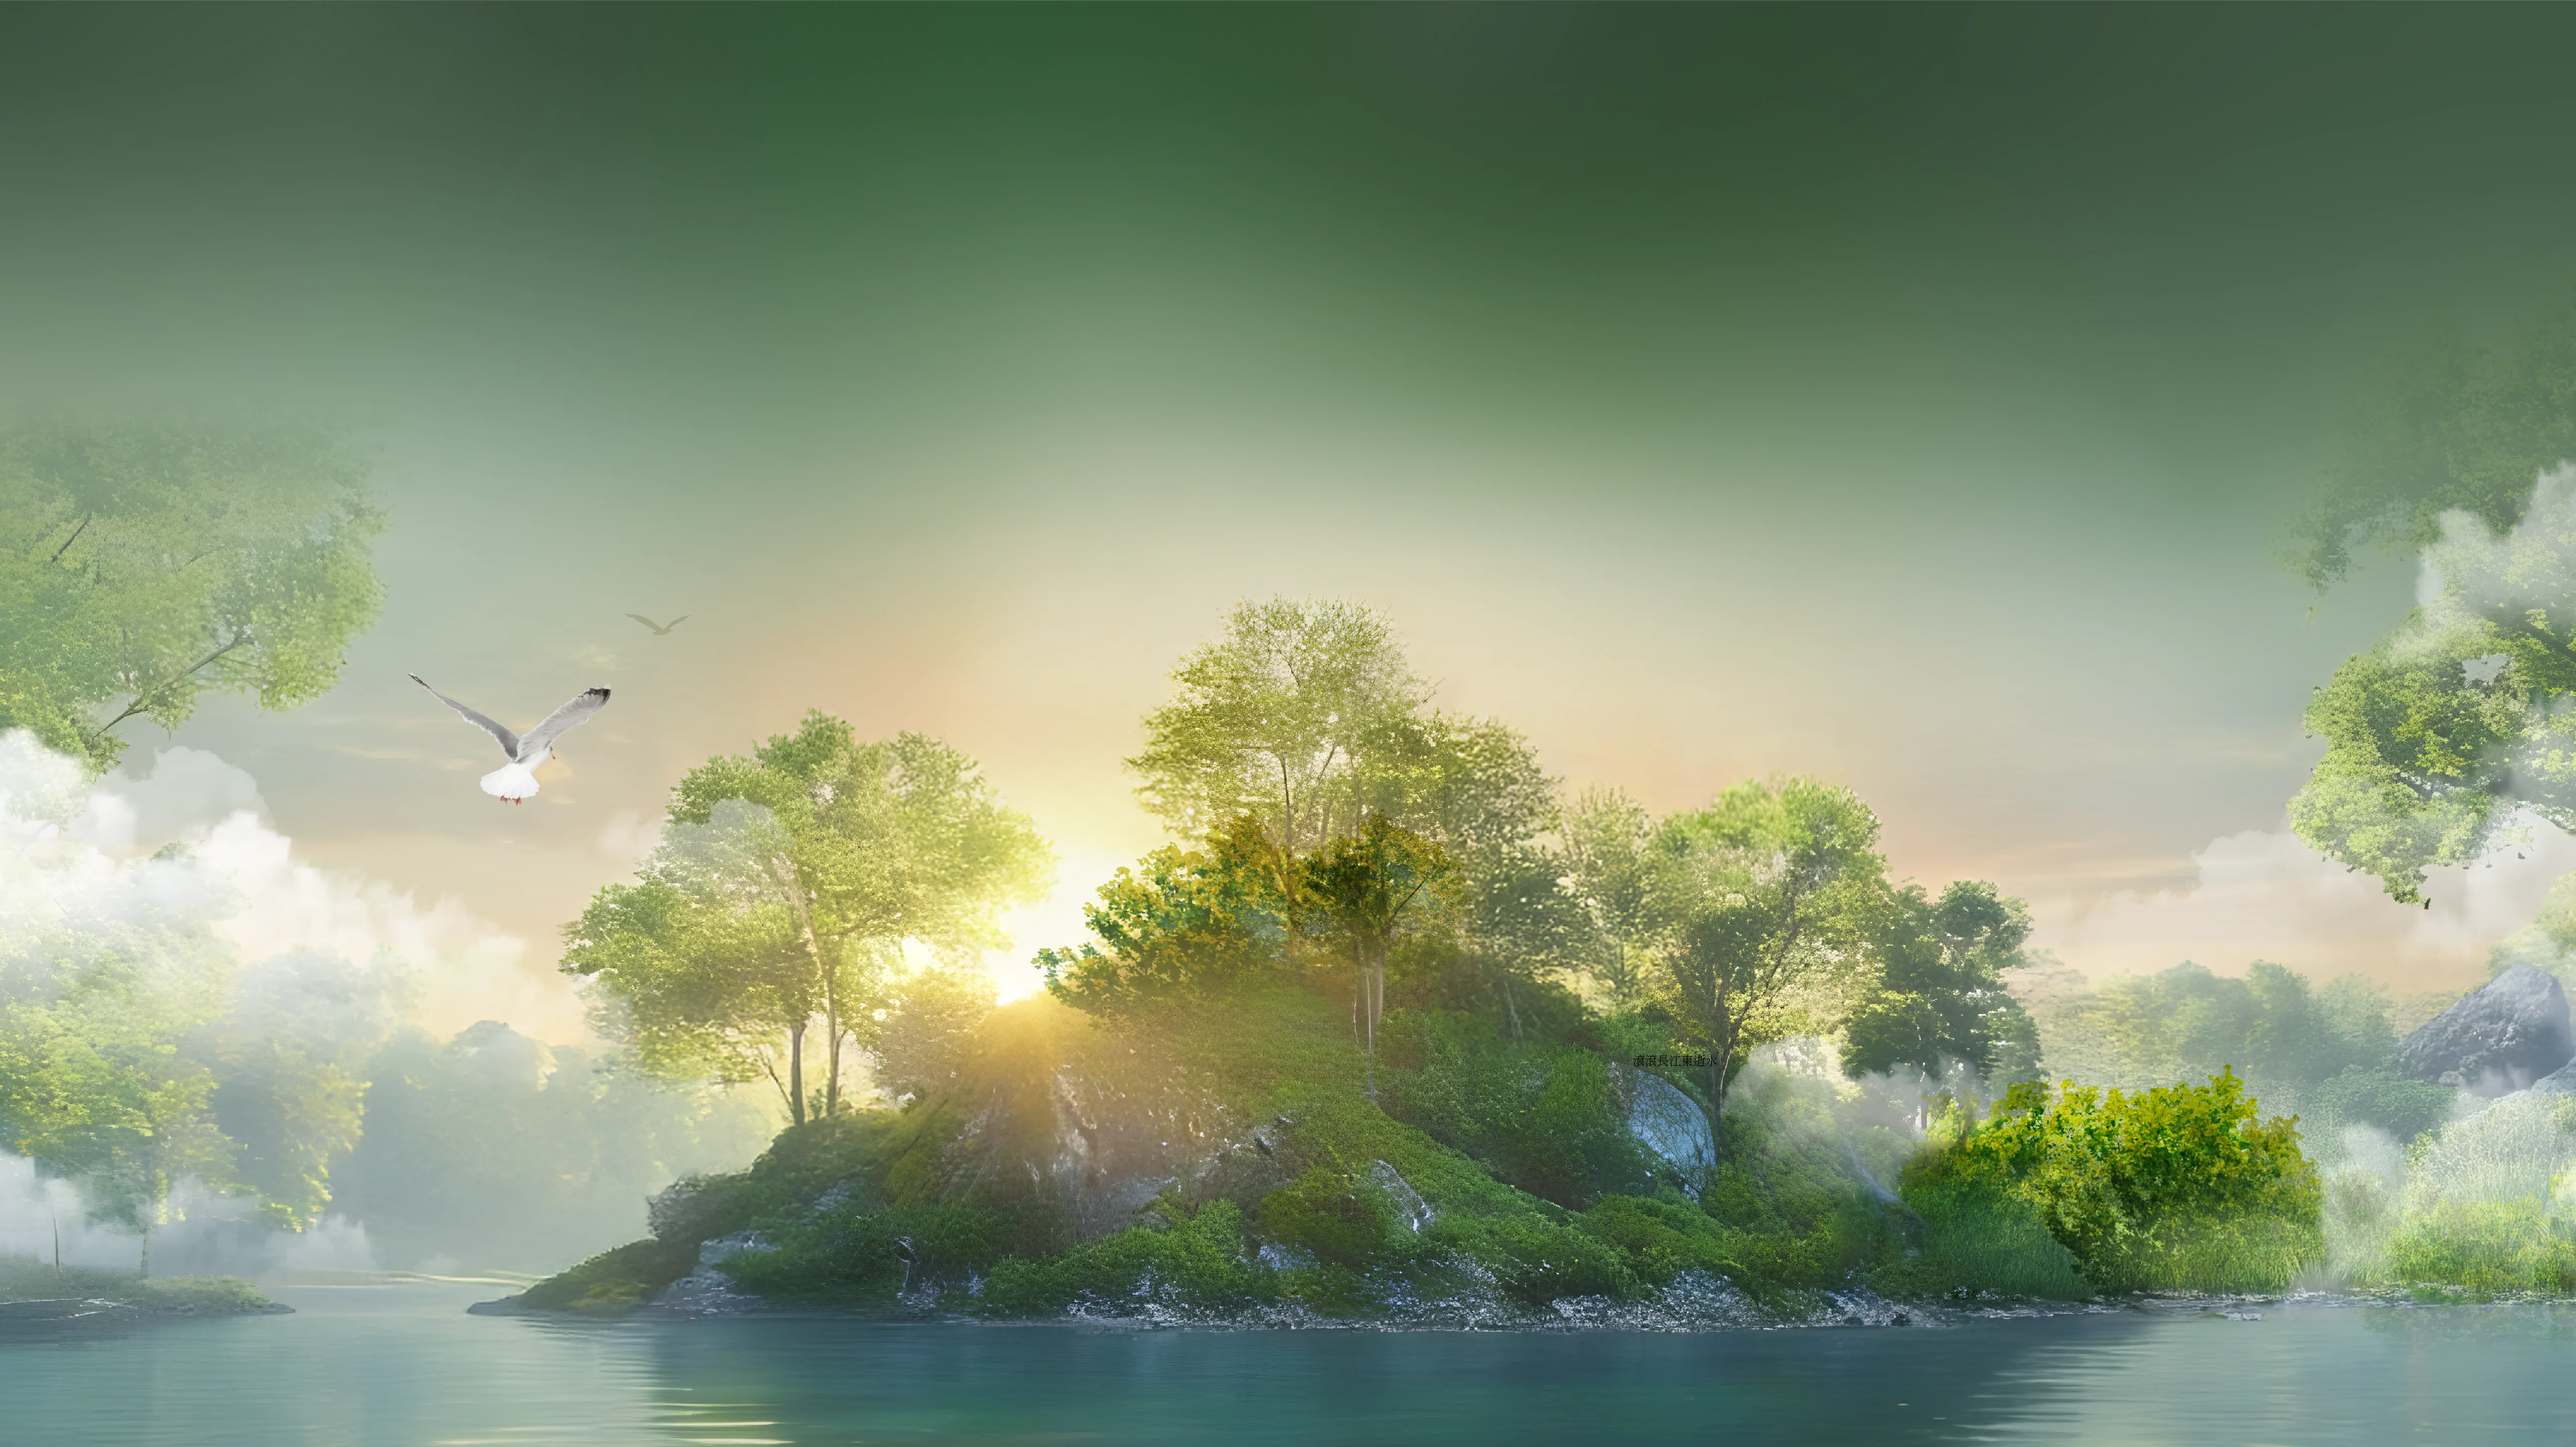
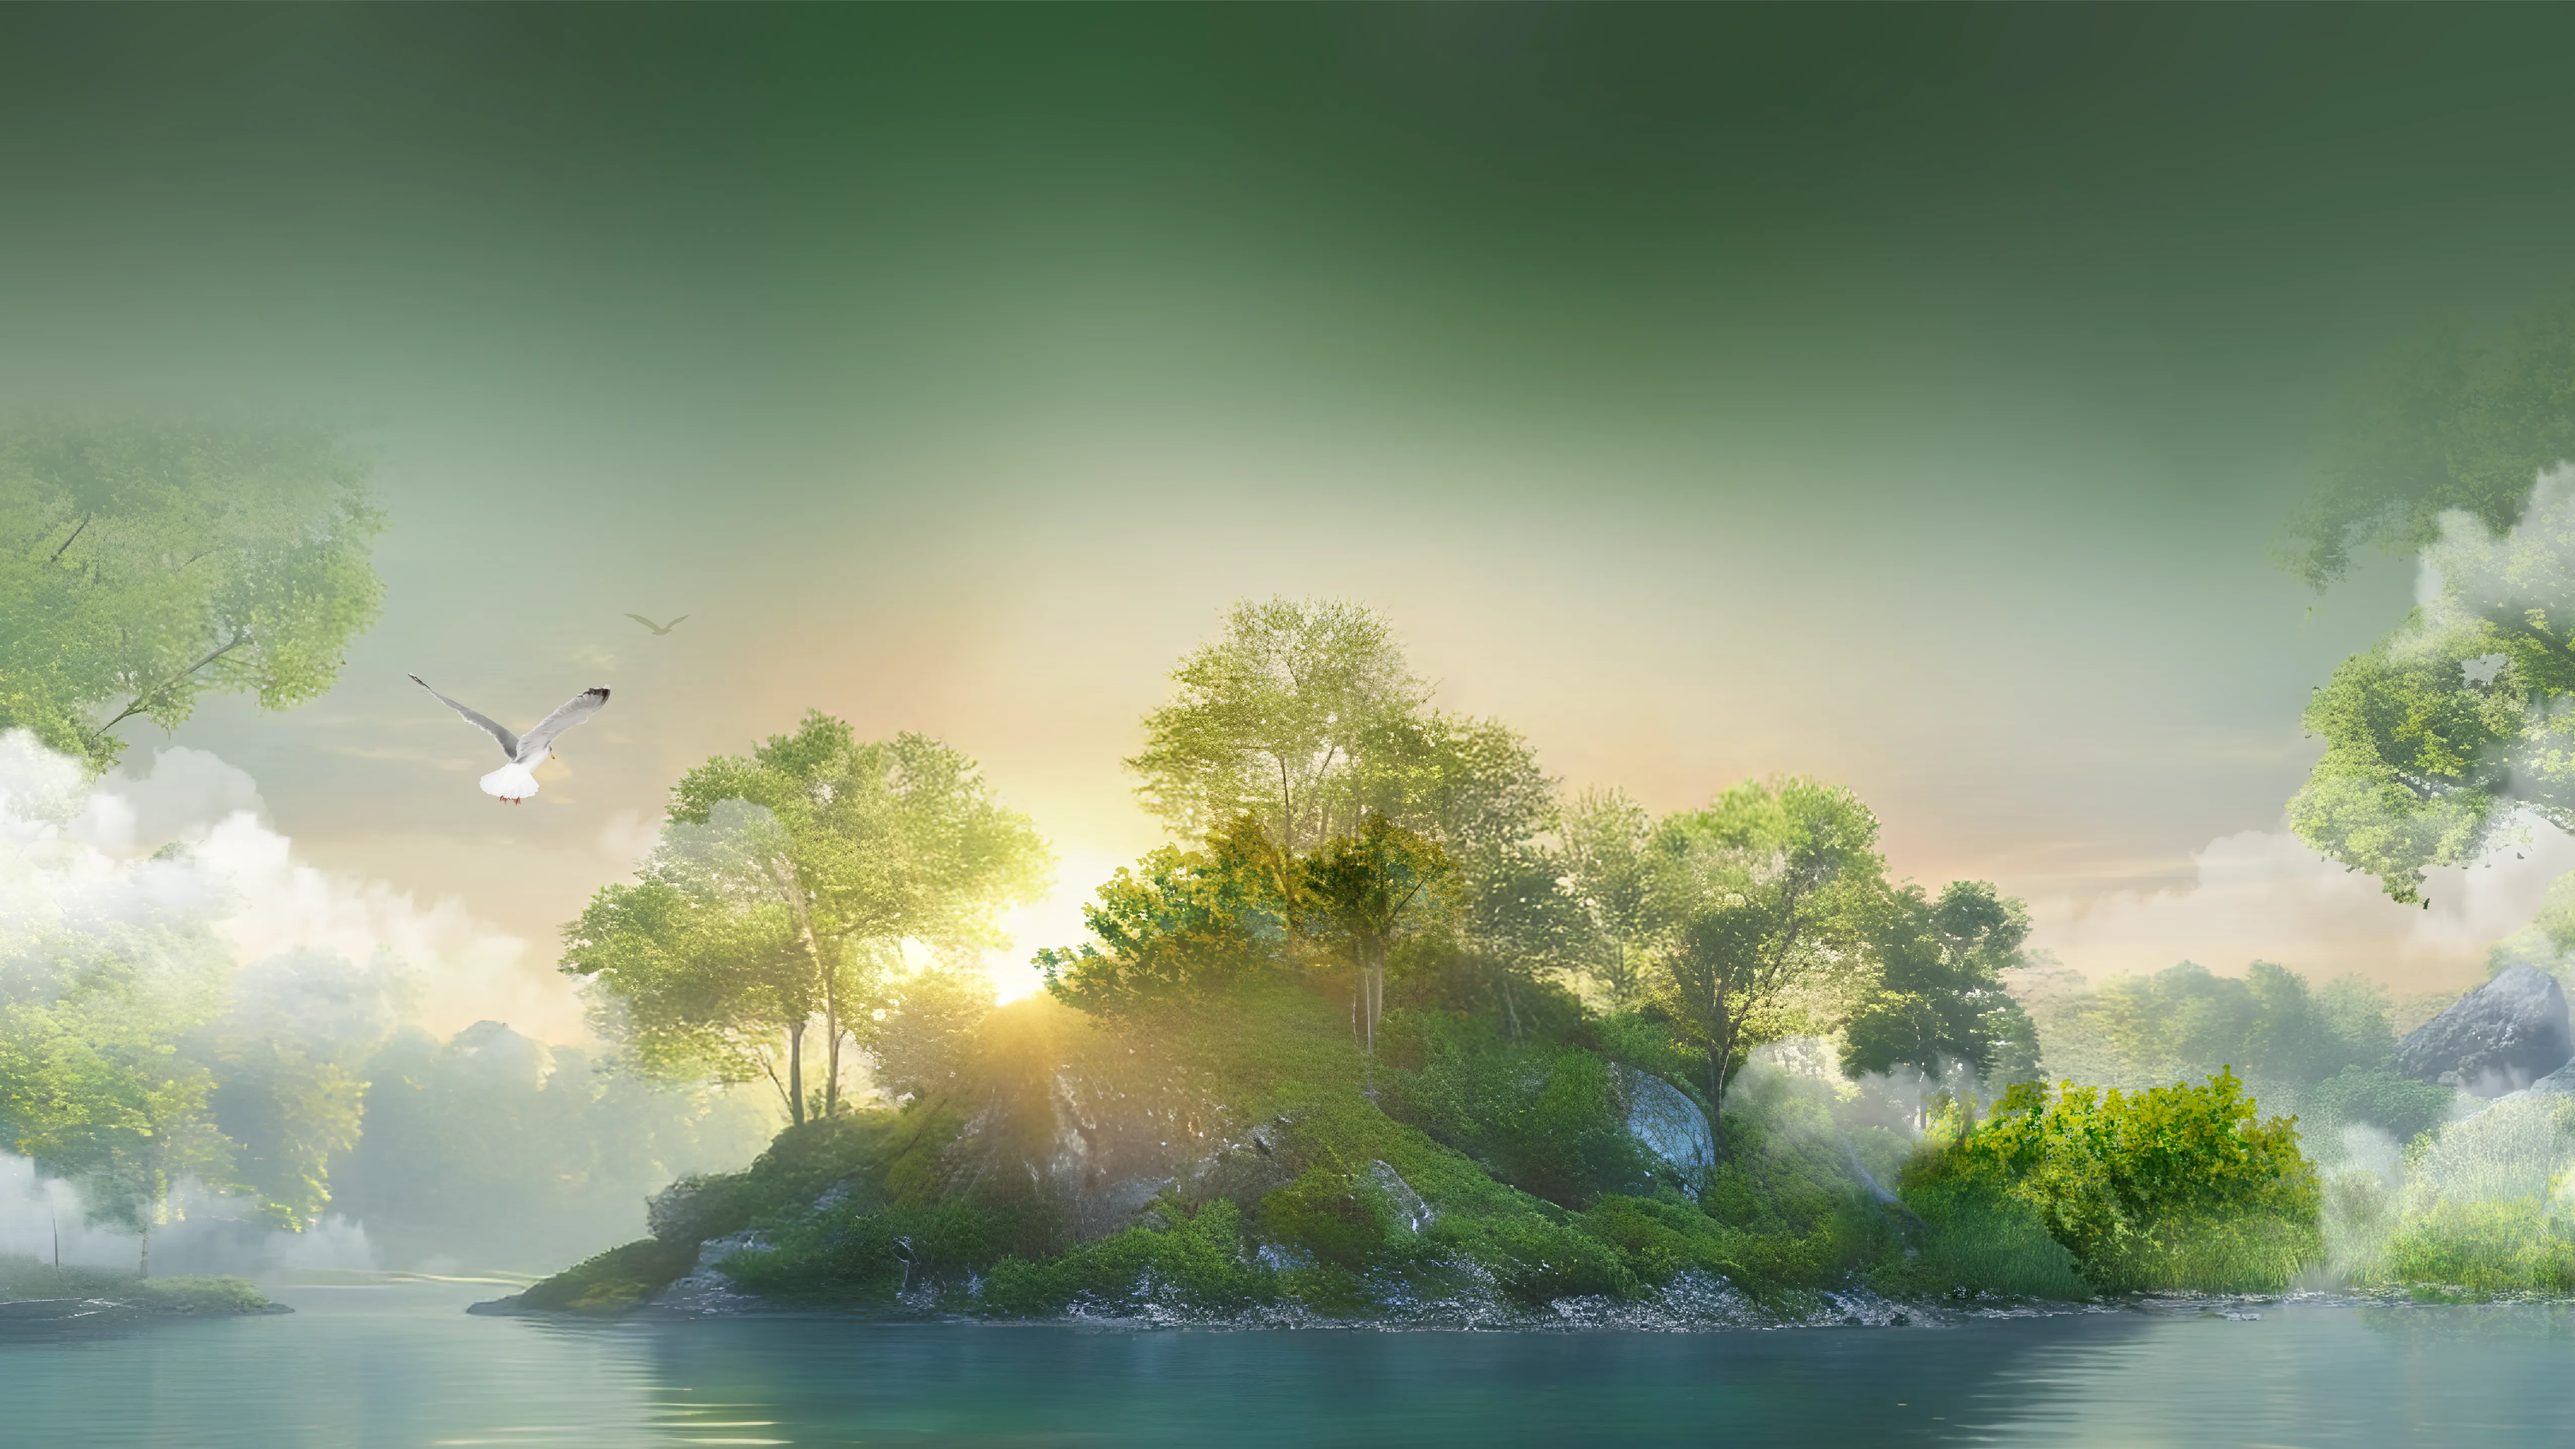
update

diff --git a/src/views/home/HomeView.vue b/src/views/home/HomeView.vue
@@ -9,6 +9,12 @@
       </div>
     </FadeIn>
     <div class="home-view-main" v-show="isShow">
+      <div class="home-view-bird home-view-bird-1">
+        <img src="../../assets/img/home/home-bird-1@2x.png" alt="" />
+      </div>
+      <div class="home-view-bird home-view-bird-2" :class="isStart ? 'bird-float' : ''">
+        <img src="../../assets/img/home/home-bird-2@2x.png" alt="" />
+      </div>
       <div class="home-view-cloud home-view-cloud-1">
         <img src="../../assets/img/home/cloud@2x.webp" alt="" />
       </div>
@@ -47,6 +53,8 @@ import FadeIn from '@/components/transition/FadeIn.vue'
 import '@/assets/scss/home/home-view.scss'
 
 const isShow = ref(false)
+
+const isStart = ref(false)
 
 const menuItems = [
   {
@@ -116,21 +124,29 @@ const initGsap = () => {
       },
       '<+0.75',
     )
-  //   tl.from('.home-view-title-1,.home-view-title-2', {
-  //     opacity: 0,
-  //     y: '5vw',
-  //     filter: 'blur(10px)',
-  //     duration: 2,
-  //   }).from(
-  //     '.home-view-menu-item',
-  //     {
-  //       y: '105%',
-  //       opacity: 0,
-  //       stagger: 0.1,
-  //       duration: 1.5,
-  //     },
-  //     '<+0.25',
-  //   )
+    .from(
+      '.home-view-bird-1',
+      {
+        x: '-50%',
+        y: '70%',
+        opacity: 0,
+        duration: 1.5,
+      },
+      '<+0.5',
+    )
+    .from(
+      '.home-view-bird-2',
+      {
+        x: '-50%',
+        y: '70%',
+        opacity: 0,
+        duration: 1,
+        onComplete: () => {
+          isStart.value = true
+        },
+      },
+      '<+0.25',
+    )
 }
 
 const showClick = () => {

diff --git a/src/assets/scss/home/home-view.scss b/src/assets/scss/home/home-view.scss
@@ -44,6 +44,43 @@
     width: 100%;
     height: 100%;
     overflow: hidden;
+    .home-view-bird {
+      position: absolute;
+    }
+    .home-view-bird-1 {
+      top: 42.25%;
+      left: 23.25%;
+      width: 2vw;
+      @include pad {
+        left: 12.5%;
+      }
+    }
+    .home-view-bird-2 {
+      top: 43.25%;
+      left: 14%;
+      width: 10.75vw;
+      @include pad {
+        top: 45%;
+        left: 5%;
+      }
+    }
+    .bird-float {
+      animation: float 3s ease-in-out forwards infinite;
+    }
+    @keyframes float {
+      0% {
+        transform: translateY(0%);
+      }
+      50% {
+        transform: translateY(-10%);
+        @include pad {
+          transform: translateY(-20%);
+        }
+      }
+      100% {
+        transform: translateY(0%);
+      }
+    }
     .home-view-cloud {
       position: absolute;
       top: 0;
